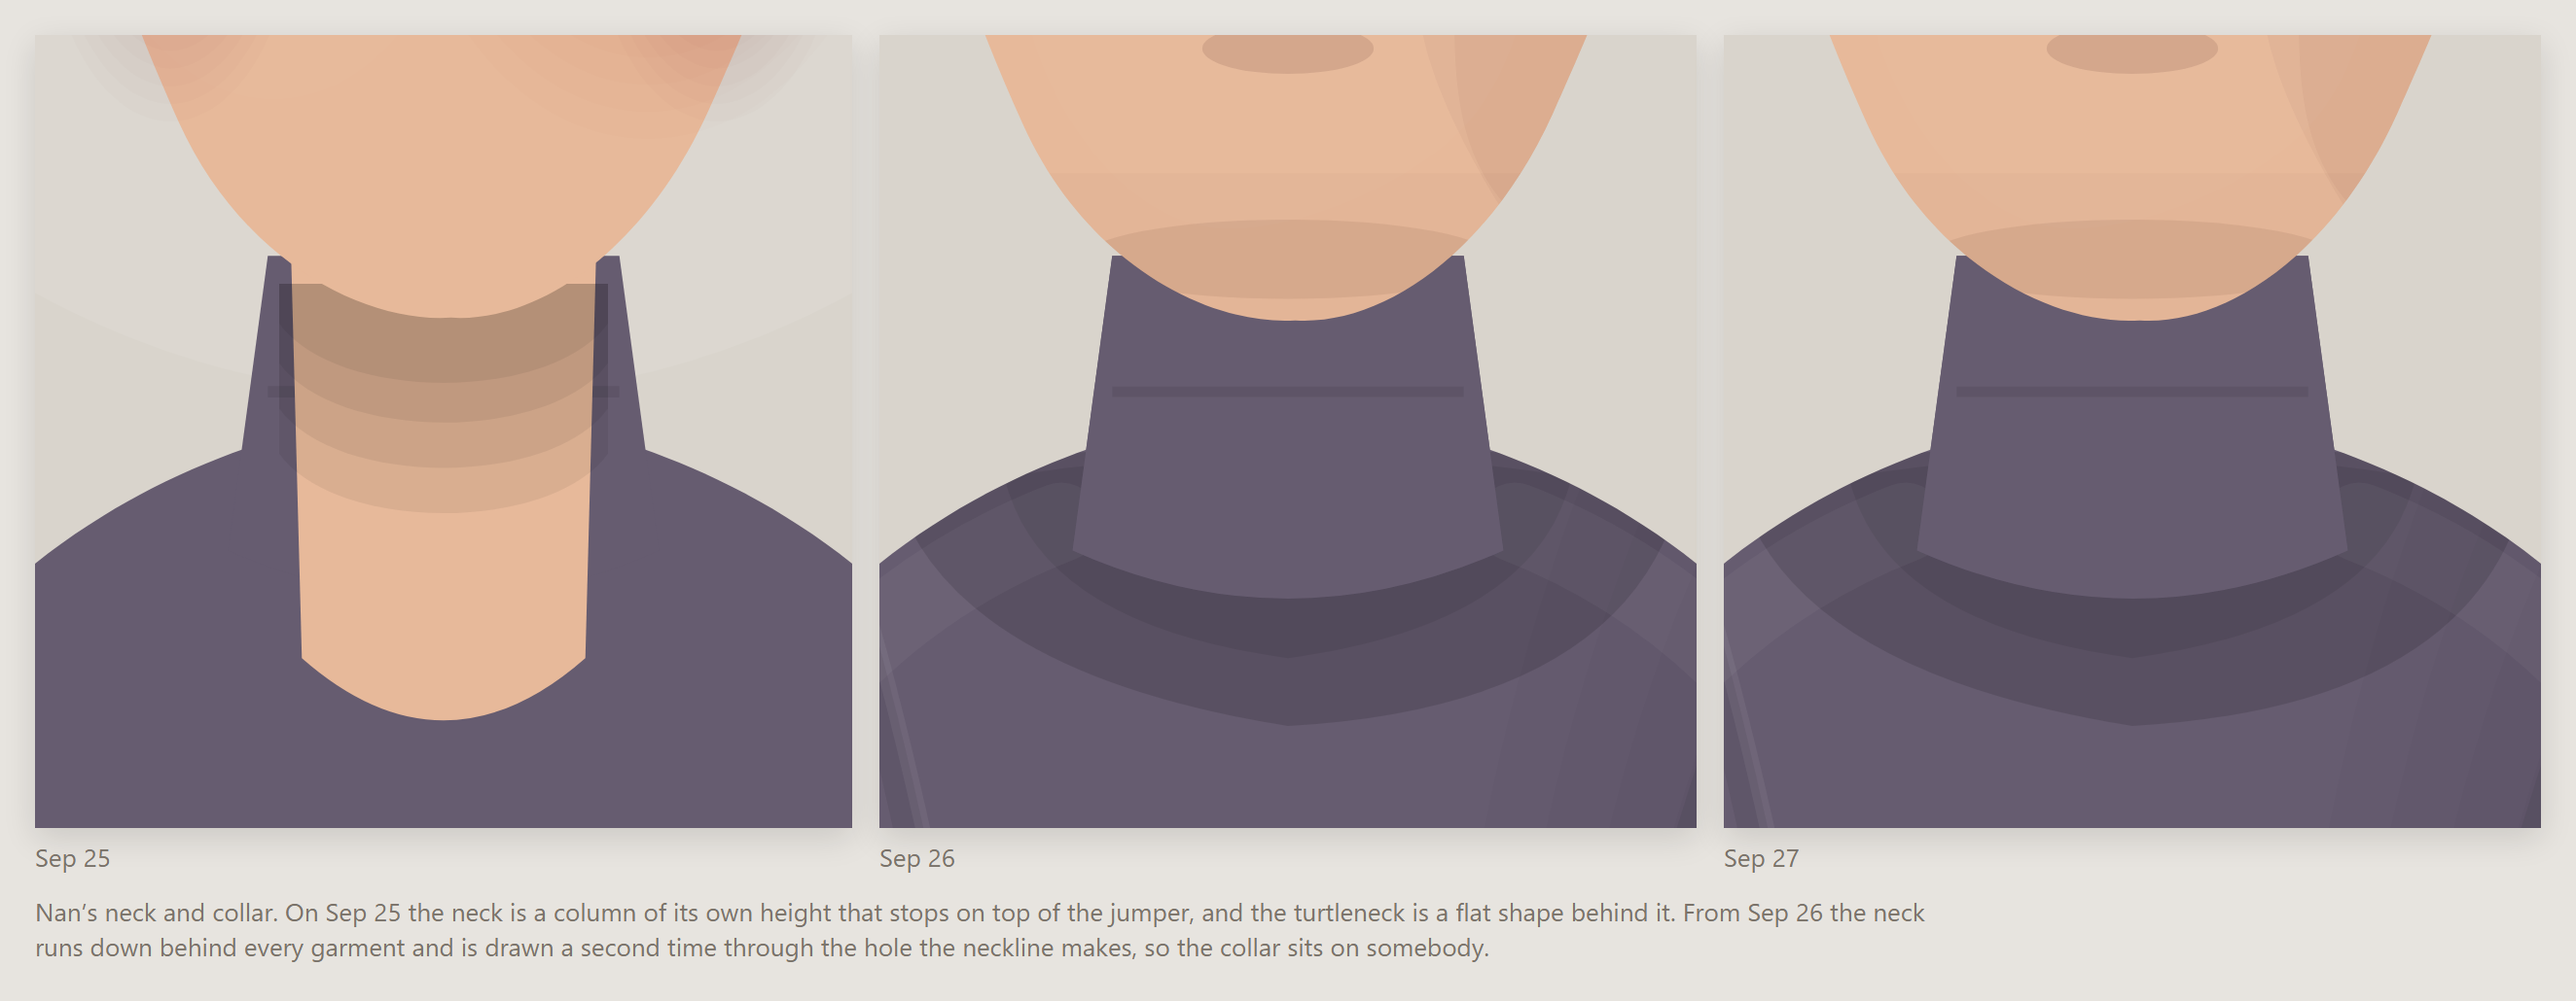
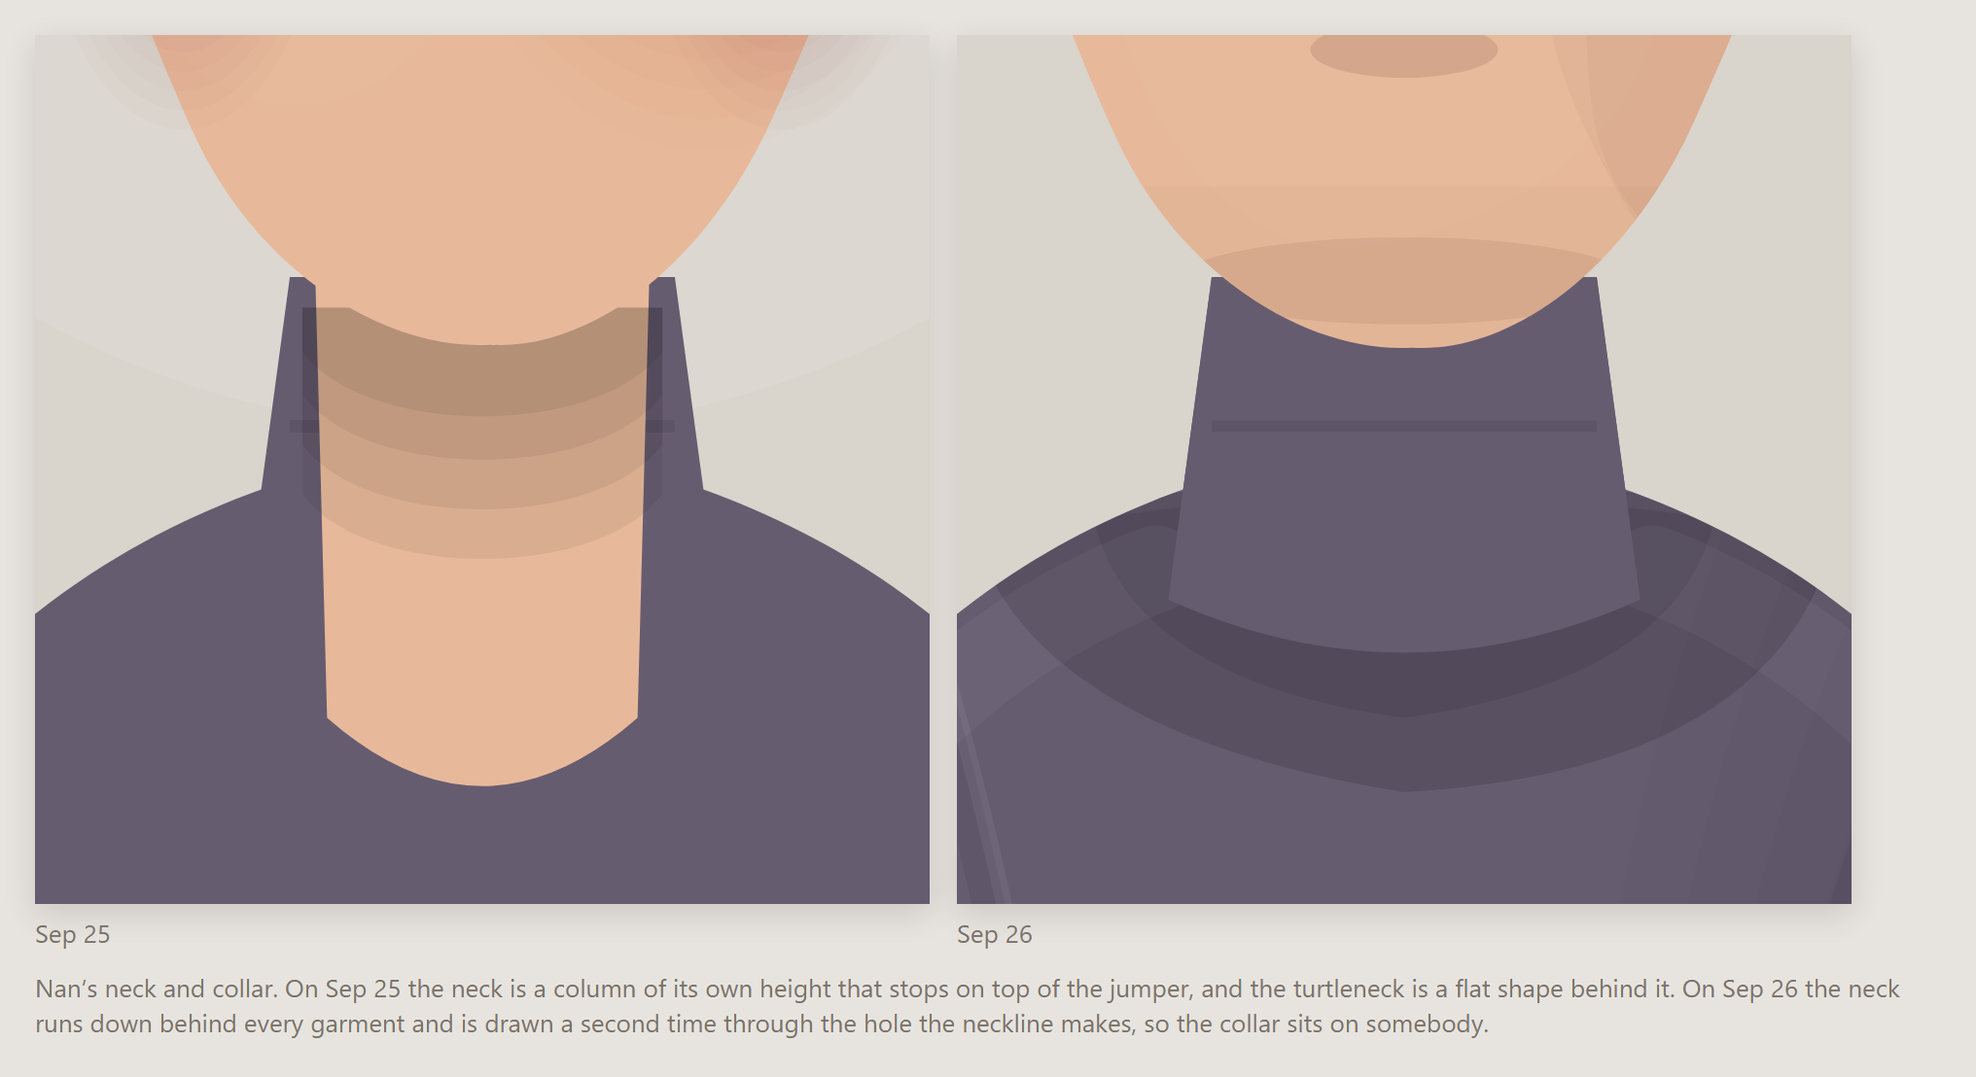
blog: the family sheet with its clip ids namespaced, and day three as it really went
02-family had the collision in it, which is what a blank-eyed Nan and Dad were all along. Every image is
regenerated with ids namespaced per portrait, the portrait rows are Sep 25 and Sep 26 again since Sep 27 no
longer differs, and 05-clash replaces 05-eyes: the same three specs and two revisions on one page, ids left
alone on the left and namespaced on the right, nothing else different.

Day three is rewritten from the beginning. It was a day of careful work on eye code that was not broken, and
the post is more useful saying that than pretending the fixes were the point. render.mjs namespaces its ids
too, so the published reproduction does not reproduce the bug.

diff --git a/blog-ideas/portraits/post.md b/blog-ideas/portraits/post.md
@@ -1,6 +1,7 @@
 # The family that didn't age
 
-*Three days of changes to a portrait renderer, told through five people who never changed.*
+*Three days of changes to a portrait renderer, told through five people who never changed — and one day
+spent fixing something that was never broken.*
 
 ---
 
@@ -44,7 +45,7 @@ Three iterations, one evening, and the thing is still an emoji. That was the use
 
 ## Day 1: tone over line
 
-![The family, 25 to 27 September](img/02-family.png)
+![The family, 25 and 26 September](img/02-family.png)
 
 The instinct at this point is to blame proportions. It is almost never proportions. What made those heads
 cartoons is that **every feature was a stroke**: the eye was an outline, the nose was an arc, the smile was
@@ -76,9 +77,11 @@ time through the hole the outermost neckline makes, closed upward rather than on
 a hole with skin inside it, not a curve painted on cloth. Look at Nan's turtleneck, and at the girl's denim
 jacket, where the neckline is a V cut into the cloth with a neck coming up through it:
 
-![Nan's neck and collar across the three revisions](img/06-neck.png)
+![Nan across both revisions](img/04-nan.png)
 
-![The girl's denim jacket across the three revisions](img/07-jacket.png)
+![Nan's neck and collar](img/06-neck.png)
+
+![The girl's denim jacket](img/07-jacket.png)
 
 **Asymmetry that agrees with itself.** A symmetrical face with one random wobble in it reads as a mistake. A
 face where one cheek is fuller *and* one jaw corner sharper *and* one temple wider *and* the chin sits toward
@@ -95,59 +98,57 @@ from *this* face's own outline, let out — so a beard on a square jaw is square
 lip it sits on: pinned under the nose, its lower edge taking the lip curve's own move, so a smile bows it and
 it is never the one still thing on a moving face.
 
-![Dad across the three revisions](img/03-dad.png)
+![Dad across both revisions](img/03-dad.png)
 
 **Cloth behaving as cloth.** The head's shadow on the chest, shoulder folds, armpit pull, neckline thickness,
-the torso shaded as a cylinder. Compare the three shirts above; the collar on the right sits *on* someone.
+the torso shaded as a cylinder. Compare the two shirts above; the collar on the right sits *on* someone.
 
 **Hats that admit hair is under them.** The hair is clipped to below the crown line and pressed in at a slant
 rather than cut flat, and because a crown's bottom edge arcs upward, the hat wears a small skirt in its own
 colour to fill the crescent of forehead a level cut would leave.
 
-## Day 3: the thing the close-ups hid
+## Day 3: a whole day spent on a bug that was not there
 
-The Sep 26 portraits were the best yet at full size — and then somebody looked at the thumbnails and asked why
+The Sep 26 portraits were the best yet at full size — and then somebody looked at this very sheet and asked why
 Nan and Dad had no eyes.
 
-![Nan and Dad's eyes at 160 px, 25 and 27 September](img/05-eyes.png)
+They were right: in the sheet, they did not. Blank white almonds, no iris, no pupil. Dad's beard was mostly gone
+too, though nobody noticed that until later.
 
-They did have eyes. Sampling the pixels proved it: the iris, the pupil and the lid were all drawn, and the eye
-region measured, on average, exactly as dark as it had the day before. The eyes were also missing on only *one
-side* of each face — which is the detail that gave it away, because the only thing separating Nan's two eyes
-was `asym: 0.92`, an eight per cent difference in openness.
+What followed was most of a day of increasingly careful work on the eye code. The lash was moved off the lid
+curve's Bézier control point and onto the aperture it is supposed to sit on. The sclera stopped being nearly
+white. The lower lid was given a floor so `openness` could not drag the aperture under two pixels. The `narrow`,
+`hooded` and `monolid` apertures went up a third. The iris became a share of the eye's width so that opening a
+lid would show more eye and not more white. Each of these was defensible. Two of them were probably improvements.
+All of them were fixing nothing.
 
-Eight per cent is nothing. Unless the thing you are scaling is already too small. A hooded eye at 0.82 openness
-draws an aperture about four sheet units tall; at 0.75 it draws about 3.7. Rendered at 160 px that is the
-difference between 1.75 pixels and 1.6 — and on the raster it came out as **four rows of tone against two**.
-One eye landed on the pixel grid and the other landed between it. The whole bug was that the eye had got small
-enough for rounding to decide whether it existed.
+The clue was in plain sight the whole time and took three rounds to read: the eyes were missing on **one side
+only**, and the sole difference between Nan's two eyes is `asym: 0.92`. The other clue was that every
+measurement taken on a single portrait — sampling the actual pixels, scanning the eye region, comparing the
+average darkness against the day before — came back saying the eye was exactly as dark as it had always been.
+It was. The eye was fine. The **sheet** was broken.
 
-So the fix is not a shading tweak, it is a floor. Three changes, each of which is also simply more true:
+![The same portraits with colliding ids and with namespaced ids](img/05-clash.png)
 
-- **The lower lid barely moves.** Narrowing your eyes is an upper-lid action; the lower lid travels very little.
-  It now takes 30% of the openness instead of all of it, which puts a floor under the aperture that `openness`
-  and `asym` cannot drag through.
-- **No style sits under about two pixels at portrait size.** The `narrow`, `hooded` and `monolid` apertures were
-  authored while looking at a 400-pixel sheet, where five units is a perfectly good squint. They went up by a
-  third. At size they still read as narrow, hooded and monolid — the shape carries the style, not the gap.
-- **The iris is a share of the eye's width**, rather than a size of its own. It used to be fixed per style, so
-  opening a lid filled the new space with sclera: a wider eye got *whiter*, not more eye. Now `sclera` genuinely
-  means how much white shows beside the iris, and the per-style `iris` sizes — dead data once the rule changed
-  — are gone.
+`toSvg` gives each clip path an id from a counter, with a comment explaining that ids are document-wide so the
+counter is module-level. That is correct, and it works, for the page, which loads exactly one `portrait.mjs`.
+But the comparison sheet loads *several revisions of that module at once*, and each one starts its counter again
+at `c1`. Two `c1`s in one document resolve to the first, so every portrait after the first row was drawing
+through some earlier portrait's clips — clips cut for a different face at a different height. The irises fell
+outside them and vanished. So did the beard. So did the odd hard creases that had been appearing on Nan's cheek,
+which I had been reading as over-aggressive plane shading.
 
-From the first, wrong attempt at this, two things worth keeping: the lash now sits on the aperture's drawn edge
-rather than on the lid curve's Bézier control point about a fifth of a lid-height above it, and the sclera takes
-40% of the skin's tone instead of 18%, because a white that is nearly white is a bright patch at any size.
+The renderer never changed. Both fixes are reverted; `portrait.mjs` is byte-identical to where it stood on
+Sep 26, and the eye styles are the ones that were authored. The sheets namespace their ids, which is four lines
+in a scratchpad script that is not part of the project.
 
-The lesson is not about eyes. It is that a renderer judged only at the size you draw it while you work will
-quietly stop working at the size people actually see it — and that the failure will look like a shading problem
-when it is really an arithmetic one.
-
-![Nan across the three revisions](img/04-nan.png)
+The lesson I actually wanted from this post was that a renderer judged only at the size you work at will stop
+working at the size people see it. That turned out to be a nicer lesson than the true one, which is: when your
+instrument and your subject disagree three times running, stop adjusting the subject.
 
 ## The arc
 
-Six revisions over three days, and essentially one move repeated: **stop drawing the outline of a thing and
+Five revisions of the drawing over three days, and essentially one move repeated: **stop drawing the outline of a thing and
 start drawing the thing the light does to it.** Tone instead of line on the face. A neck that goes *into* a
 collar instead of a column parked in front of it. A beard cut from a jaw instead of fitted over one.
 Asymmetries that agree with each other instead of dice rolled per feature.
@@ -160,25 +161,26 @@ The family in the sheet never aged. Only the hand drawing them did.
 
 ## The rest of the family
 
-The other three carry the same three days, and between them they cover what Nan and Dad do not: the boy's
+The other three carry the same two revisions, and between them they cover what Nan and Dad do not: the boy's
 hoodie, the hair under the girl's braids, and a face with neither a beard nor glasses to hide behind.
 
-![Mum across the three revisions](img/08-mum.png)
+![Mum across both revisions](img/08-mum.png)
 
-![The boy across the three revisions](img/09-boy.png)
+![The boy across both revisions](img/09-boy.png)
 
-![The girl across the three revisions](img/10-girl.png)
+![The girl across both revisions](img/10-girl.png)
 
 ---
 
 ## Reproducing the pictures
 
 ```sh
-node blog-ideas/portraits/render.mjs d11afc8 b458cef .    # ./out/sheet.html, one row per revision
+node blog-ideas/portraits/render.mjs d11afc8 b458cef    # ./out/sheet.html, one row per revision
 ```
 
 `family.mjs` is the five specs, written only with keys that exist in every revision's `DEFAULTS`, so the same
-five people survive the trip. `render.mjs` pulls each old `portrait.mjs` out with `git show` into a temp file
+five people survive the trip. `render.mjs` namespaces each portrait's clip ids, which is the entire subject of
+day three. `render.mjs` pulls each old `portrait.mjs` out with `git show` into a temp file
 and imports it — the module has no imports of its own, so nothing else has to be reconstructed, and no old
 code is ever checked back in. Day 0 is the one exception: those heads come from `parlor.mjs` at `099ab41`,
 `b4499d3` and `89e8053`, which draw to a canvas rather than SVG, so they were shot in a headless browser.
